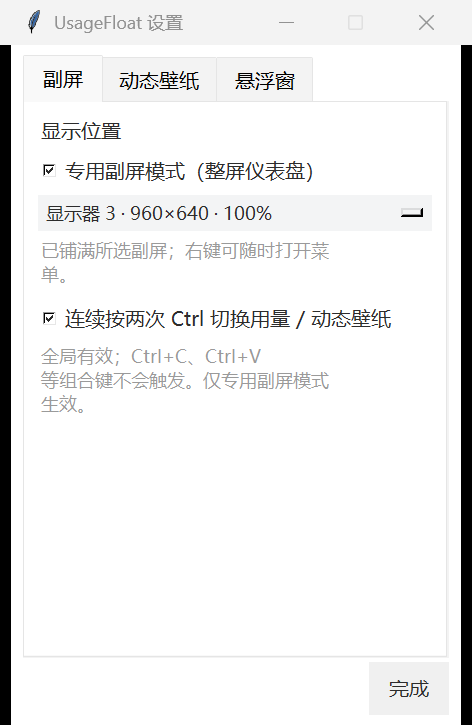
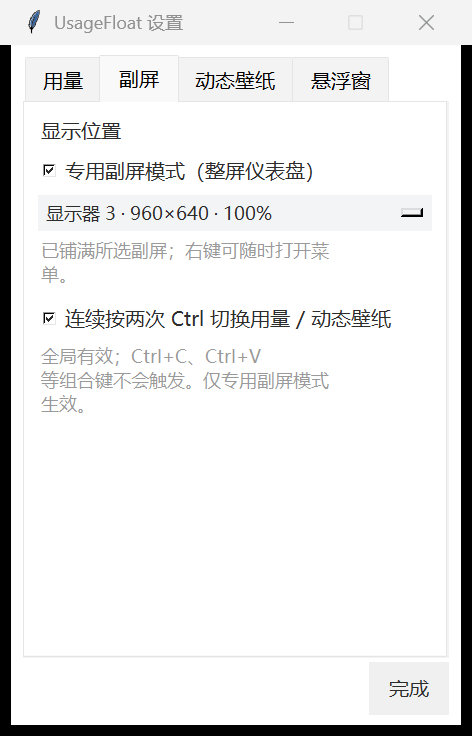
Document provider settings and drop private-tool mentions.
README now covers the 用量 tab, the Windows zip, and LiteLLM
credentials via env/config only. Settings screenshots are recaptured
so the notebook includes the new tab.

diff --git a/usage_float.py b/usage_float.py
@@ -134,8 +134,7 @@ GROK_BILLING_URL = "https://grok.com/grok_api_v2.GrokBuildBilling/GetGrokCredits
 
 # Many LiteLLM virtual keys cannot call /key/info. Spend and budget come back
 # on actual LLM responses as x-litellm-key-spend / x-litellm-key-max-budget.
-# Probe models are overridable; leave empty endpoint unless env/config/LiWork
-# supplies one.
+# Probe models are overridable; leave empty unless env or config supplies an endpoint.
 LLM_PROXY_DEFAULT_ENDPOINT = ""
 LLM_PROXY_EMBED_MODEL = "gemini-embedding-2"
 LLM_PROXY_CHAT_FALLBACK_MODEL = "glm-5.3-flash"
@@ -2818,7 +2817,7 @@ def _read_liwork_llm_proxy() -> tuple[str, str]:
 
 
 def read_llm_proxy_credentials() -> tuple[str, str] | tuple[None, None]:
-    """Return (api_key, openai_base) from env, usage-float config, or LiWork."""
+    """Return (api_key, openai_base) from env or usage-float config."""
     key = str(os.environ.get("LLM_PROXY_API_KEY") or "").strip()
     endpoint = str(os.environ.get("LLM_PROXY_ENDPOINT") or "").strip()
     if not key or not endpoint:
@@ -7507,16 +7506,26 @@ def run_ui() -> None:
                             widget.select(index)
                             return
 
-                if notebooks:
-                    select_notebook_tab(notebooks[0], "动态壁纸")
+                def capture_main_tab(title: str, path: Path, inner_title: str | None = None) -> None:
+                    select_notebook_tab(notebooks[0], title)
+                    win.update_idletasks()
                     win.update()
-                    if len(notebooks) >= 2:
-                        notebooks[1].select(1)
+                    if inner_title and len(notebooks) >= 2:
+                        select_notebook_tab(notebooks[1], inner_title)
+                        win.update_idletasks()
                         win.update()
-                    _capture_widget_png(win, out_dir / "settings-wallpaper.png")
-                    select_notebook_tab(notebooks[0], "副屏")
+                    time.sleep(0.35)
                     win.update()
-                    _capture_widget_png(win, out_dir / "settings-display.png")
+                    _capture_widget_png(win, path)
+
+                if notebooks:
+                    capture_main_tab("用量", out_dir / "settings-usage.png")
+                    capture_main_tab("副屏", out_dir / "settings-display.png")
+                    capture_main_tab(
+                        "动态壁纸",
+                        out_dir / "settings-wallpaper.png",
+                        "随机权重",
+                    )
             except Exception:
                 log_path.write_text(traceback.format_exc(), encoding="utf-8")
             finally:

diff --git a/test_usage_float.py b/test_usage_float.py
@@ -905,7 +905,7 @@ class LlmProxyUsageTests(unittest.TestCase):
             usage_float_module._spend_looks_like_this_request(0.1047, 2e-07)
         )
 
-    def test_liwork_key_makes_the_row_available(self) -> None:
+    def test_sidecar_proxy_file_makes_the_row_available(self) -> None:
         with TemporaryDirectory() as temp_dir:
             orca = Path(temp_dir) / "orca-data.json"
             orca.write_text(

diff --git a/README.md b/README.md
@@ -2,13 +2,17 @@
 
 Windows 用量 HUD：把 Claude / Codex / Grok 订阅用量（以及可选的 LiteLLM 代理额度）铺在专用副屏上，双击 Ctrl 切到文件夹动态壁纸。
 
-无标题栏、不占任务栏。没有登录凭证的 provider 不会出现占位行。设置 → **用量** 可扫描本机登录态、勾选要显示的行，并拖动调整顺序。
+无标题栏、不占任务栏。没有登录凭证的 provider 不会出现占位行。
 
 ## 截图
 
 专用副屏用量面板：
 
 ![专用副屏用量面板](docs/screenshots/panel.png)
+
+用量设置（扫描、勾选、拖动排序）：
+
+![用量设置](docs/screenshots/settings-usage.png)
 
 副屏设置：
 
@@ -18,11 +22,13 @@ Windows 用量 HUD：把 Claude / Codex / Grok 订阅用量（以及可选的 Li
 
 ![动态壁纸随机权重](docs/screenshots/settings-wallpaper.png)
 
-## 需要什么
+## 安装
 
-- Windows
-- 发行包：从 [Releases](https://github.com/iikawa0918/usage-float/releases) 下载 `usage-float-*-windows-x64.zip`，解压后双击 `UsageFloat.exe`（已内置 mpv）
-- 源码运行：Python 3.10+（带 tkinter）；动态壁纸可再执行 `.\install-mpv.ps1`
+**发行包（推荐）**：从 [Releases](https://github.com/iikawa0918/usage-float/releases) 下载 `usage-float-*-windows-x64.zip`，解压后双击 `UsageFloat.exe`。不需要安装 Python，动态壁纸用的 mpv 已打进包里。Windows 可能对未签名程序弹出 SmartScreen，选「仍要运行」即可。
+
+**源码运行**：Windows + Python 3.10+（带 tkinter）。动态壁纸再执行 `.\install-mpv.ps1`，或把 `mpv.exe` 放到 `vendor/mpv/`。
+
+## 凭证
 
 凭证都在本机，不经过第三方服务器：
 
@@ -32,7 +38,7 @@ Windows 用量 HUD：把 Claude / Codex / Grok 订阅用量（以及可选的 Li
 | Codex | `~/.codex/auth.json` |
 | Codex 第二账号 | `~/.codex-2/auth.json`（可用 `CODEX_HOME_2`） |
 | Grok | `~/.grok` 登录态 |
-| LiteLLM 代理 | 环境变量 `LLM_PROXY_API_KEY` + `LLM_PROXY_ENDPOINT`，或 `~/.usage-float/config.json` 里的同名字段。若本机装了 LiWork，也会尝试读取其 `llmProxyApiKey` / `llmProxyEndpoint` |
+| LiteLLM 代理 | 环境变量 `LLM_PROXY_API_KEY` + `LLM_PROXY_ENDPOINT`，或 `~/.usage-float/config.json` 里的 `llm_proxy_api_key` / `llm_proxy_endpoint` |
 
 第二 Codex 账号：
 
@@ -51,6 +57,8 @@ pythonw usage_float.py              # 浮窗 / 副屏
 python usage_float.py autostart on  # 开机自启
 ```
 
+冻结包同样支持 `UsageFloat.exe once` 和右键菜单里的开机自启。
+
 ## 交互
 
 | 操作 | 效果 |
@@ -64,13 +72,23 @@ python usage_float.py autostart on  # 开机自启
 | `Esc` | 退出 |
 | `Home` | 复位到主屏角落 |
 
+## 用量
+
+右键 → **设置…** → **用量**：
+
+- **扫描 provider**：读取本机登录态，列出已知 provider 以及是否已登录
+- **勾选「显示」**：只把勾上的用量画到面板上；空格键也可切换当前行
+- **拖动行**：按住名称或状态列上下拖，调整面板顺序（点第一列是勾选，不是拖动）
+
+未登录的 provider 即使勾选了也不会占位，登录之后才会出现。勾选和顺序写在 `~/.usage-float/config.json` 的 `providers` / `provider_order` / `disabled_providers`，一般用设置页改即可。
+
 ## 专用副屏
 
-右键 → **设置…** → **用量** 扫描 provider、勾选显示项并拖动排序。**副屏** 里选中目标显示器后打开「专用副屏模式」。程序用显示器硬件标识锁定副屏，重新插拔后会再铺满该屏；显示器被拔掉时临时退回悬浮窗。
+右键 → **设置…** → **副屏** → 选中目标显示器 → 打开「专用副屏模式」。程序用显示器硬件标识锁定副屏，重新插拔后会再铺满该屏；显示器被拔掉时临时退回悬浮窗。
 
 ## 动态壁纸
 
-先运行 `.\install-mpv.ps1`（或把 `mpv.exe` 放到 `vendor/mpv/`）。然后设置里添加媒体目录。
+发行包已内置 mpv。源码需先运行 `.\install-mpv.ps1`（或把 `mpv.exe` 放到 `vendor/mpv/`）。然后在设置 → **动态壁纸** 里添加媒体目录。
 
 - 支持常见 JPG / PNG / WebP / GIF / MP4 / WebM / MKV / MOV，含子目录
 - 每次进入随机首项；30 分钟以内的视频从 0:00 播，更长的优先随机章节、没有章节则随机时间
@@ -98,7 +116,7 @@ python usage_float.py autostart on  # 开机自启
 - `x-litellm-key-spend`
 - `x-litellm-key-max-budget`
 
-面板显示 `$已用/$额度`。没配 key 就不显示这一行。探测模型可用环境或代码里的默认值覆盖。
+面板显示 `$已用/$额度`。没配 key 就不显示这一行。探测模型可用环境变量覆盖。
 
 ## 配置
 
@@ -115,11 +133,13 @@ python usage_float.py autostart on  # 开机自启
   "double_ctrl_toggle": true,
   "wallpaper_folders": ["D:\\Wallpapers"],
   "wallpaper_image_seconds": 10,
-  "wallpaper_audio": true
+  "wallpaper_audio": true,
+  "llm_proxy_api_key": "",
+  "llm_proxy_endpoint": ""
 }
 ```
 
-`refresh_seconds` 下限 300 秒。Claude 遇到 429 会保留上次成功数据并标 stale。
+`refresh_seconds` 下限 300 秒。Claude 遇到 429 会保留上次成功数据并标 stale。LiteLLM 代理请用环境变量或上面两个 `llm_proxy_*` 字段，不要把真实 key 提交进仓库。
 
 ## 开发
 
@@ -130,4 +150,4 @@ python -m unittest test_usage_float.py
 
 ## 许可
 
-MIT。mpv 为 GPL，由 `install-mpv.ps1` 另行下载，不包含在本仓库源码树里。
+MIT。mpv 为 GPL：源码树不包含二进制，由 `install-mpv.ps1` 下载；GitHub Release 的 zip 会附带已下载的 mpv，见 [THIRD_PARTY_NOTICES.md](THIRD_PARTY_NOTICES.md)。
